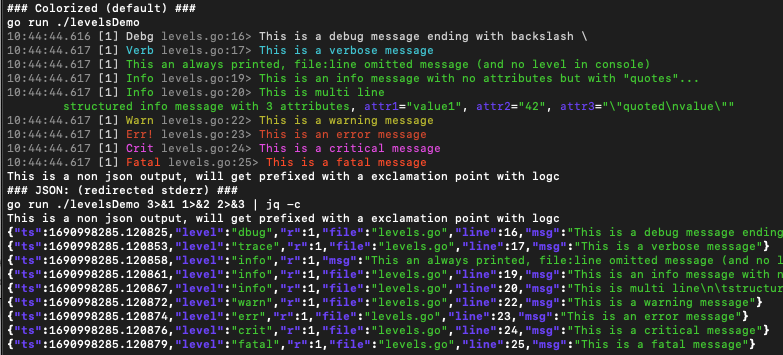
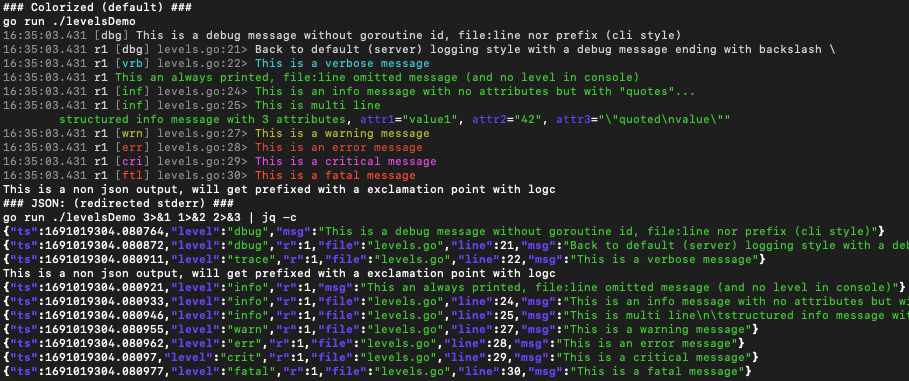
Changing color output again

diff --git a/levelsDemo/levels.go b/levelsDemo/levels.go
@@ -8,12 +8,17 @@ import (
 )
 
 func main() {
+	log.SetLogLevelQuiet(log.Debug)
+	log.Config.LogFileAndLine = false
+	log.Config.LogPrefix = ""
+	log.Config.GoroutineID = false
+	log.Debugf("This is a debug message without goroutine id, file:line nor prefix (cli style)")
+	log.Config = log.DefaultConfig()
 	// So log fatal doesn't panic nor exit (so we can print the non json last line).
 	log.Config.FatalPanics = false
 	log.Config.FatalExit = func(int) {}
-	log.SetLogLevelQuiet(log.Debug)
 	// Meat of the example: (some of these are reproducing fixed issues in `logc` json->console attributes detection)
-	log.Debugf("This is a debug message ending with backslash \\")
+	log.Debugf("Back to default (server) logging style with a debug message ending with backslash \\")
 	log.LogVf("This is a verbose message")
 	log.Printf("This an always printed, file:line omitted message (and no level in console)")
 	log.Infof("This is an info message with no attributes but with \"quotes\"...")

diff --git a/console_logging.go b/console_logging.go
@@ -75,13 +75,13 @@ var (
 	}
 	// Used for color version of console logging.
 	LevelToText = []string{
-		"Debg",
-		"Verb",
-		"Info",
-		"Warn",
-		"Err!",
-		"Crit",
-		"Fatal",
+		"dbg",
+		"vrb",
+		"inf",
+		"wrn",
+		"err",
+		"cri",
+		"ftl",
 		"",
 	}
 	// Cached flag for whether to use color output or not.
@@ -141,7 +141,7 @@ func colorGID() string {
 	if !Config.GoroutineID {
 		return ""
 	}
-	return Colors.Gray + fmt.Sprintf("[%d] ", goroutine.ID())
+	return Colors.Gray + fmt.Sprintf("r%d ", goroutine.ID())
 }
 
 // Longer version when colorizing on console of the level text.
@@ -149,5 +149,5 @@ func ColorLevelToStr(lvl Level) string {
 	if lvl == NoLevel {
 		return Colors.DarkGray
 	}
-	return LevelToColor[lvl] + LevelToText[lvl] + Colors.DarkGray
+	return Colors.DarkGray + "[" + LevelToColor[lvl] + LevelToText[lvl] + Colors.DarkGray + "]"
 }
